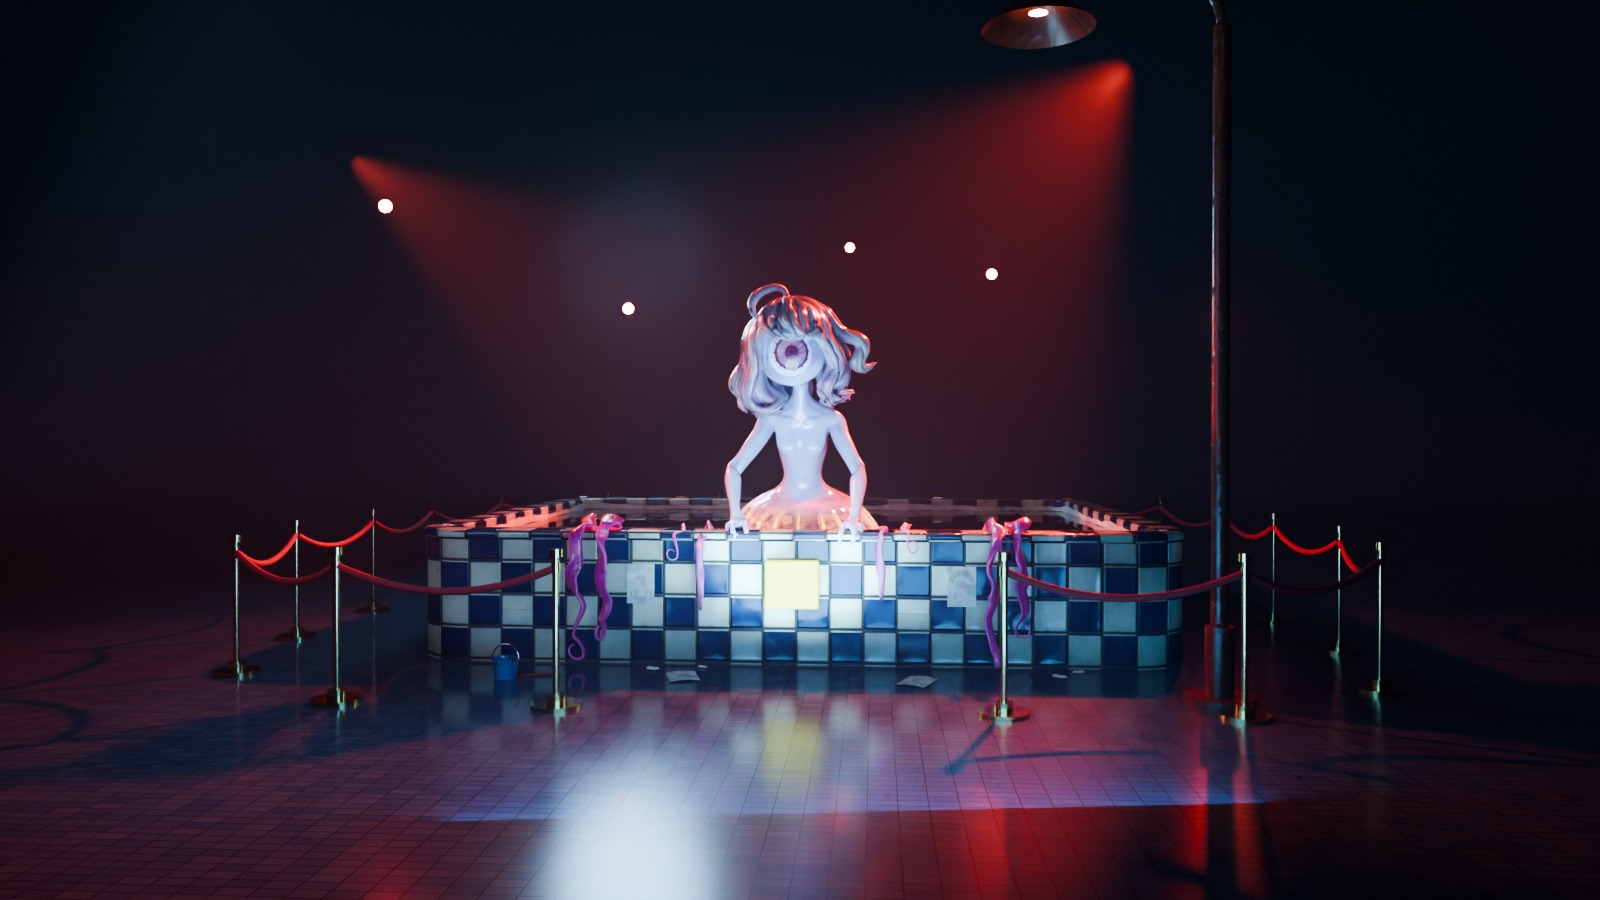
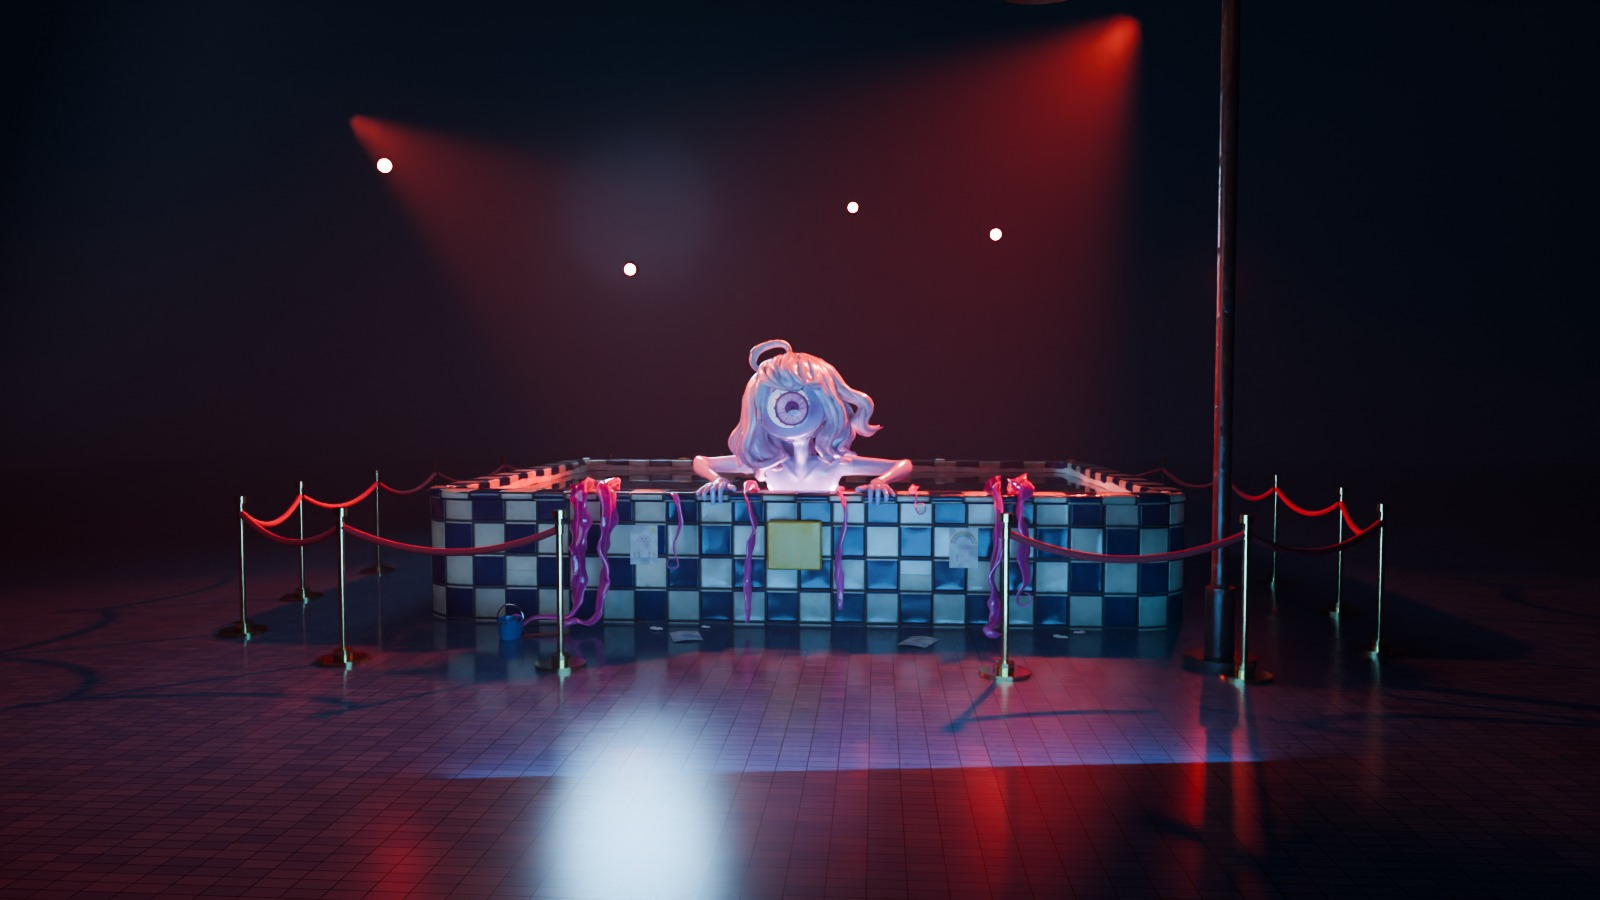
Medusa: render finali della posa affacciata e screenshot Godot delle mani
- docs/proposte/medusa/finale/6_affacciata_9m.jpg: dal punto di vista del giocatore
  all'ingresso (occhi a 1,7 m, circa 9 m), vasca vera con l'acqua, Cycles 1600x900.
- docs/proposte/medusa/finale/6b_affacciata_vicino.jpg: primo piano basso come il concept
  (camera a 1,2 m, 1,3 m davanti al bordo), mani aggrappate al coping, tentacoli sul bordo.
- docs/proposte/medusa/mani/godot_*.jpg e mani_godot.jpg: le mani in Godot 4.7.2 (statua e
  affacciata), stessa deformazione di Blender.
- medusa_render_finale: la scena puo' partire da un altro file (MEDUSA_FINALE).

Claude-Session: https://claude.ai/code/session_01QxnqH7DoPvBnqfs4PnUwSP

diff --git a/tools/blender/medusa_render_finale.py b/tools/blender/medusa_render_finale.py
@@ -52,7 +52,8 @@ def M(x, y=None, z=None):
 
 def prepara():
     global K, DZ
-    apri(os.path.join(BUILD, 'medusa_finale_prima.blend' if PRIMA else 'medusa_finale.blend'))
+    apri(os.path.join(BUILD, 'medusa_finale_prima.blend') if PRIMA else
+         os.environ.get('MEDUSA_FINALE', os.path.join(BUILD, 'medusa_finale.blend')))
     for o in list(bpy.data.objects):
         if o.type in ('CAMERA', 'LIGHT'):
             bpy.data.objects.remove(o)
